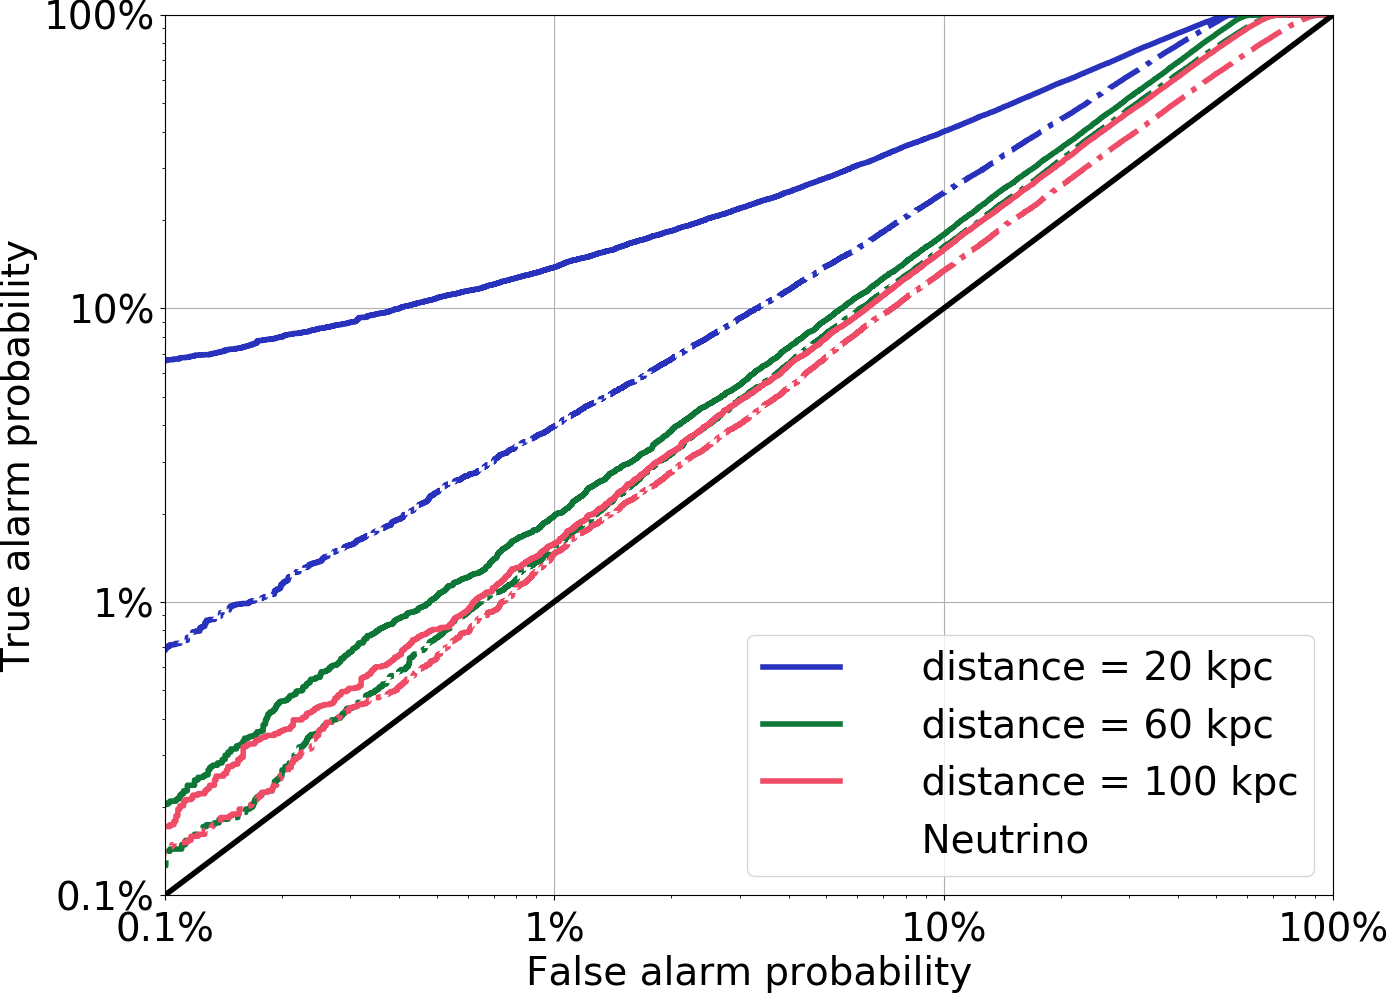
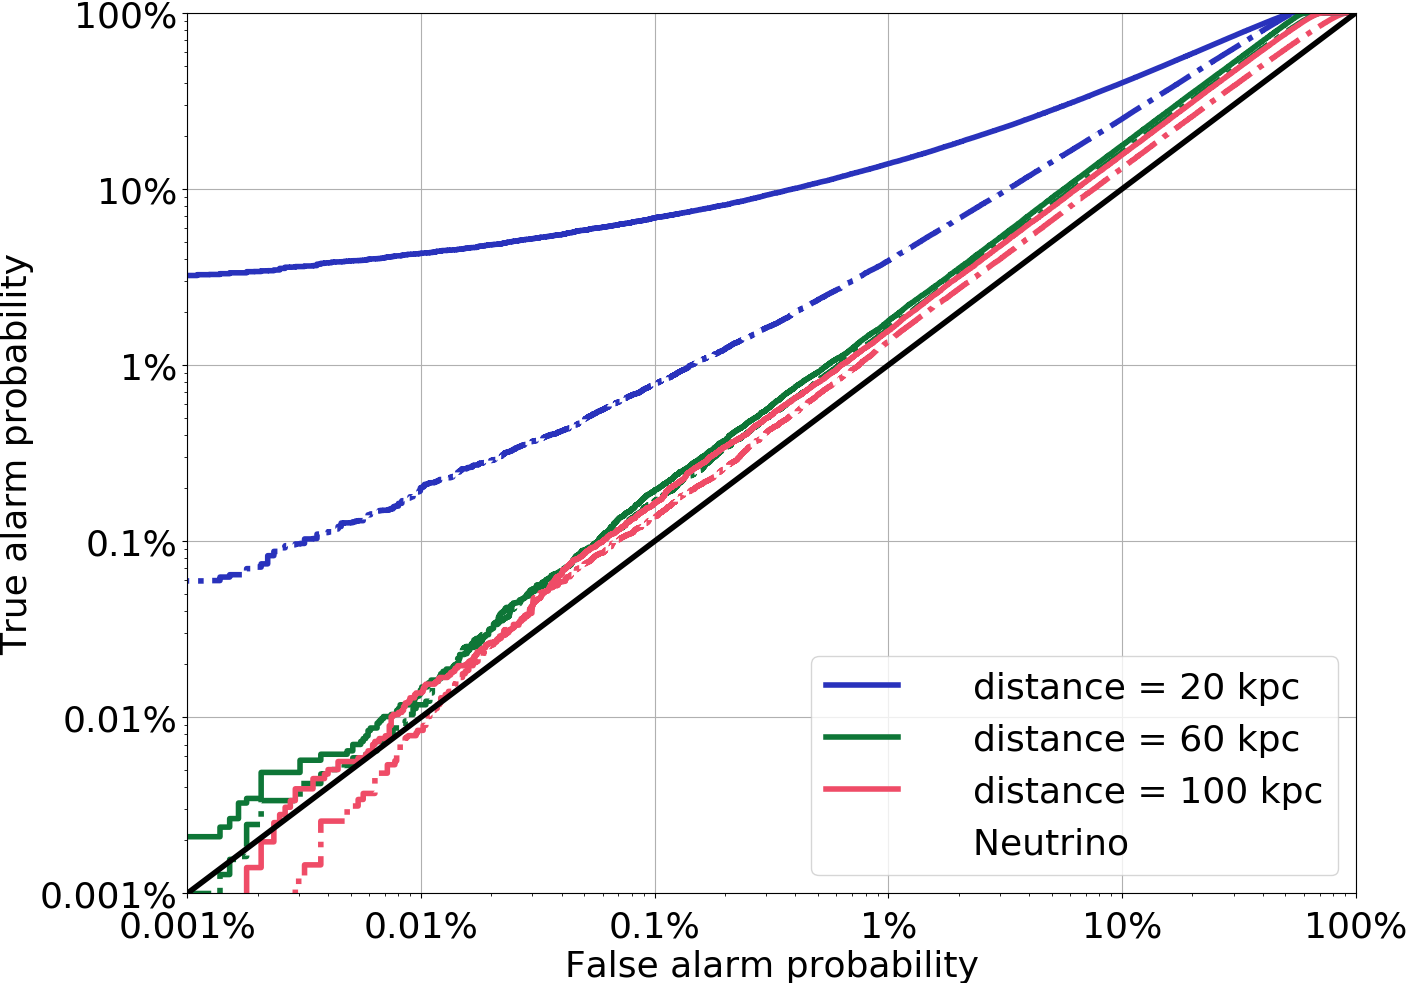
comments incorporated, samples increased to 1.08e6

diff --git a/main.tex b/main.tex
@@ -87,15 +87,17 @@ the gravitational wave signals buried in noise. For the waveforms used in the
 training of the convolutional neural network, our results suggest that a
 network of advanced LIGO, advanced VIRGO and KAGRA, or a network of LIGO A+,
 advanced VIRGO and KAGRA is likely to detect a magnetorotational core collapse
-supernovae out to the Large or even Small Magellanic Clouds. A Galactic event 
-is likely to be detectable with a network of H+L+VK if the explosion mechanism 
-is the neutrino-driven mechanism.  By testing the convolutional neural network 
-with waveforms not used for training, we show that the true alarm probabilities 
-are $50\%$ and $73\%$ at $50$ kpc for waveforms $\text{R3E1AC}$ and 
-$\text{R4E1FC\_L}$ for networks of HLVK and H+L+VK respectively.  
+supernovae out to the Large or even Small Magellanic Clouds. 
+%A Galactic event is likely to be detectable with a network of H+L+VK 
+%if the explosion mechanism is the neutrino-driven mechanism.  
+By testing the convolutional neural network 
+with waveforms not used for training, we show that the true alarm probability
+is $66\%$ at $60$ kpc for waveforms $\text{R3E1AC}$ and 
+$\text{R4E1FC\_L}$ for networks of H+L+VK.  
 For waveforms $\text{s}20$ and $\text{SFHx}$ at $10$ kpc, 
-the true alarm probabilities are $64\%$ for a network of H+L+VK. 
-All at false alarm probability equal to $1\%$. 
+the true alarm probabilities are $49\%$ and $20\%$ for a network of H+L+VK 
+and HLVK respectively. 
+All at false alarm probability equal to $0.1\%$. 
 \end{abstract}
 
 \pacs{}
@@ -587,7 +589,7 @@ $^*$ Mass of a star in a binary system with an initial helium mass of $3.5\text{
     \end{center}
     \caption{Examples of simulated waveforms for which the explosion is modelled by
 the magnetorotational mechanism. The left panel shows a waveform 
-from~\cite{abdikamalov2014measuring} for an equatorial observer. The progenitor is $12\text{M}_\odot$ with
+from~\cite{abdikamalov2014measuring}. The progenitor is $12\text{M}_\odot$ with
 differential rotation parameter $A=10^4~\text{km}$. The initial angular velocity
 at the core $\Omega_c$ is $5.0~\text{rads/s}$. The middle panel shows a waveform
 from~\cite{dimmelmeier2008gravitational}. The simulation corresponds to a
@@ -596,9 +598,10 @@ progenitor of $15\text{M}_\odot$ with $A=10^5$ km and $\Omega_c =
 from~\cite{richers2017equation} where the progenitor is $12\text{M}_\odot$, $A$
 and $\Omega_c$ are $10^4$ km and $3.0~\text{rad/s}$ respectively. In all panels,
 only the $h_{+}$ polarisations are shown because the simulations are
-axis-symmetric or 2D, and therefore described by only one polarisation.  The
-sources are assumed to be at a distance of $10$ kpc. The x-axes show the time after 
-core bounce. The waveforms shown in all panels are for an observer in the equatorial plane.\label{fig:magwaveforms}} 
+axis-symmetric or 2D, and therefore described by only one polarisation. 
+The waveforms shown in all panels are for an observer in the equatorial plane.
+The sources are assumed to be at a distance of $10$ kpc. The x-axes show the time after 
+core bounce.\label{fig:magwaveforms}} 
 \end{figure*}
 %
 % plot of example neutrino waveforms
@@ -623,11 +626,9 @@ modelled by the neutrino-driven mechanism. From the left to the right, the
 panels show waveforms from~\cite{10.1093mnrasstz990, 
 radice2019characterizing, yakunin2017gravitational}, with progenitors of masses equal to
 $15\text{M}_\odot$, $15\text{M}_\odot$ and $60\text{M}_\odot$ respectively.
-For the left and middle panels, the observer is assumed to be along the pole, 
-while an observer along the equator is assumed for the right panel.
-The sources are assumed to be at $10$ kpc from earth. The x-axes show the time after core bounce.
-The waveform shown in the left panel is for a polar observer, while the other panels show that 
+The waveform shown in the left panel is for a polar observer, while the waveforms in the other panels are 
 for an equatorial observer.
+The sources are assumed to be at $10$ kpc from earth. The x-axes show the time after core bounce.
 \label{fig:neuwaveforms}} 
 \end{figure*}
 %
@@ -799,8 +800,8 @@ This step is essential for the \ac{CNN} to learn the features of the waveforms
 and to identify them effectively under different noise scenarios and starting
 times.  After that, we generate independent noise realisations for the
 background noise class. The entire data set $\bold{D}$ has
-roughly $l = 3.0 \times 10^{5}$ data samples, where each of the 3 classes
-contains approximately $1.0\times10^{5}$ data samples.
+roughly $l = 1.26 \times 10^{6}$ data samples, where each of the 3 classes
+contains approximately $4.2\times10^{5}$ data samples.
 %
 %\begin{equation}\label{eq:finaldata}
 %\bold{D}(\boldsymbol{\alpha}, \boldsymbol{\delta}, \boldsymbol{\delta_t}, \bold{t}, \bold{x}) =  \left(\begin{array}{c}
@@ -825,7 +826,7 @@ input time-series for a single detector. A data sample consists of such a
 time-series containing a signal from the same source or simply background noise
 from all the detectors in the network. The data samples are then split into 3
 groups, with $1.0\times10^{4}$ samples being randomly selected for validation.
-Of the remainder, $\sim 1.7\times10^{5}$ for training and $\sim 1.2\times10^{5}$ for tesing. 
+Of the remainder, $1.70\times10^{5}$ for training and $1.08\times10^{6}$ for tesing. 
 The large number of testing samples is chosen so that low values of \ac{FAP} can be obtained 
 (see section \ref{sec:result} and section \ref{sec:unseen}).
 When the training is finished for a dataset generated at a given distance, the above described
@@ -846,7 +847,8 @@ the paper, we will use their acronyms to refer to the networks, i.e., HLVK and H
 train/validate/test the \ac{CNN}. The blue shows a whitened time-series with a
 signal added to Gaussian noise generated using the power spectral density of \ac{aLIGO}. 
 The red curve shows the same whitened signal free of
-noise. The original waveform is shown in Fig. \ref{fig:neusample1}.
+noise. The optimal signal to noise ratio for this signal is $5.5$.
+The original waveform is shown in Fig. \ref{fig:neusample1}.
 The source is at a distance of $10$ kpc from earth.
 \label{fig:sample}} 
 \end{figure}
@@ -932,7 +934,7 @@ higher than those of neutrino-driven signals.
 distances, $20$, $60$, and $100$ kpc. The left panel shows the results for the
 neutrino-driven mechanism, while the panel on the right shows those for the
 magnetorotational mechanism. In both panels, the solid lines are for the
-network H+L+VK, while the dashed lines are for HLVK. The black diagonal lines in both plots indicate 
+network H+L+VK, while the dashed lines are for HLVK. The black lines in both plots indicate 
 the worst scenario where a model has zero ability in distinguishing its input.
 \label{fig:ROClog}} 
 \end{figure*}
@@ -946,26 +948,26 @@ results for three chosen \acp{FAP} values are shown in Fig.~\ref{fig:eff}.  In
 this figure, a similar trend is seen that magnetorotational signals are easier
 for the \ac{CNN} to identify than neutrino-driven signals at a given distance.
 For magnetorotational signals from sources located at $50$ kpc and a \ac{FAP}
-of $1\%$, the \ac{CNN} achieves a \ac{TAP} of $87\%$ and $72\%$ for the
+of $0.1\%$, the \ac{CNN} achieves a \ac{TAP} of $82\%$ and $66\%$ for the
 networks H+L+VK and HLVK respectively. At more restrict \acp{FAP} such as
-$0.01\%$, the \ac{CNN} still achieves \acp{TAP} of $75\%$ and $62\%$ for sources at
+$0.001\%$, the \ac{CNN} still achieves \acp{TAP} of $72\%$ and $55\%$ for sources at
 the same distance for the two networks respectively.  For sources that are
 located at a slightly further distance of $60$ kpc, the networks achieve a
-\ac{TAP} of $82\%$ (H+L+VK) or $60\%$ (HLVK) at a \ac{FAP} of $1\%$. Such a range
+\ac{TAP} of $77\%$ (H+L+VK) or $54\%$ (HLVK) at a \ac{FAP} of $0.1\%$. Such a range
 includes distances associated with the Large and Small Magellanic Clouds and
 covers the satellite galaxies in between~\cite{karachentsev2004catalog,
-belokurov2007cats}.  For sources at $100$ kpc, the \acp{TAP} are no less than $50\%$ 
-for H+L+VK for all chosen \acp{FAP} values, and is $61\%$ if
-the \ac{FAP} is $1\%$. These numbers indicate that with
+belokurov2007cats}.  For sources at $80$ kpc, the \acp{TAP} are no less than $50\%$ 
+for H+L+VK for all chosen \acp{FAP} values, and is $66\%$ if
+the \ac{FAP} is $0.1\%$. These numbers indicate that with
 such a \ac{GW} network, it is possible to detect magnetorotational \ac{CCSN}
-signals out to such a distance. For sources at $150$ and $200$ kpc, the \acp{TAP}
-drop to $39\%$ and $21\%$ respectively for \ac{FAP} equal to $1\%$.
+signals out to such a distance. For sources at $100$, $150$ and $200$ kpc, the \acp{TAP}
+drop to $55\%$, $33\%$ and $16\%$ respectively for \ac{FAP} equal to $0.1\%$.
 On the other hand, it is more difficult for the
 \ac{CNN} to detect and classify the neutrino-driven signals, due to their
 weaker amplitudes. For example, for sources at $10$ kpc, the \ac{CNN} achieves
-a \ac{TAP} of $53\%$ and $22\%$ for H+L+VK and HLVK respectively if the
-\ac{FAP} is $1\%$.  This means that for a \ac{GW} from a Galactic \ac{CCSN}
-signal it is possible to detect and classify it with a network of H+L+VK.
+a \ac{TAP} of $38\%$ and $10\%$ for H+L+VK and HLVK respectively if the
+\ac{FAP} is $0.1\%$. In Fig.~\ref{fig:eff}, only the values of \ac{TAP} that
+are larger than zero will be plotted.
 
 %
 % the TAP as a function of distance
@@ -1020,26 +1022,32 @@ For example, an input will be assigned into a certain class if the
 corresponding probability is larger than the pre-selected threshold probability. In such a
 scenario, the \ac{FAP} and \ac{TAP} would be affected by the choice of the
 threshold. We show such a result in Fig.~\ref{fig:ROCfixed}, where we employed
-a threshold probability of $95\%$. 
+a threshold probability of $90\%$. 
 This value is chosen so that low values of \ac{FAP} can be maintained throughout all tested distances
 as illustrated by the right y-axes of the figures.
 %because for lower values, 
 %there could be more than a class with predicted probabilities from the \ac{CNN} 
 %larger than the threshold, while higher values could potentially rule out inputs 
 %that may otherwise be correctly identified.
-For H+L+VK and magnetorotational signals at $10$ kpc, the \ac{TAP} is $97\%$. If the distance
-is extended to $100$ kpc, the \ac{TAP} is still larger than $50\%$. 
-For HLVK, the \ac{TAP} is $95\%$ for sources at $10$ kpc and drops to $54\%$ at
+For H+L+VK and magnetorotational signals at $10$ kpc, the \ac{TAP} is $98\%$. 
+If the distance is extended to $100$ kpc, the \ac{TAP} is still larger than $50\%$. 
+For HLVK, the \ac{TAP} is $96\%$ for sources at $10$ kpc and drops to $56\%$ at
 $60$ kpc.
 %The \acp{TAP} decrease to $10\%$ and $9\%$ for sources at $150$ and $200$ kpc.
-For all distances, the \ac{CNN} maintains a \ac{FAP} no larger than $0.2\%$ for
+For all distances, the \ac{CNN} maintains a \ac{FAP} no larger than $0.3\%$ for
 both networks regarding magnetorotational waveforms. For neutrino-driven
-signals, we show that H+L+VK has a \acp{TAP} of $39\%$ at $10$ kpc while it
-is $6\%$ at $10$ kpc for HLVK with \acp{FAP} $\sim 0.1\%$. It should be noted that the results presented in this section are
+signals, we show that H+L+VK has a \acp{TAP} of $44\%$ at $10$ kpc while it
+is $11\%$ at $10$ kpc for HLVK with \acp{FAP} $< 0.3\%$.
+As we have chosen a large value of threshold, the values of \ac{TAP} decreases rapidly 
+as the distance increases. Again, only the values of \ac{TAP} larger than zero will be plotted.
+
+It should be noted that the results presented in this section are
 averaged over all the data samples in the testing samples. The performance on
 any individual waveform may vary depending on the morphology and the amplitudes
-of the waveform.
-
+of the waveform. 
+In addition, if an accurate time window and/or localisation of en event are available
+(e.g. with electromagnetic and/or neutrino observations), 
+such low values of \ac{FAP} may not be necessary. 
 %Also shown in this figure is a curve showing the \ac{TAP} for all the classes, defined by,
 %\begin{equation}\label{eq:TAPforall}
 %\text{TAP}_{\text{all}} = \frac{\text{No. of correctly identified test input}}{\text{No. of test input}}.
@@ -1099,7 +1107,7 @@ panels show the waveforms $\text{R3E1AC}$(left) and $\text{R4E1FC\_L}$(right),
 for a polar observer, modelled by the magnetorotational mechanism. 
 The inset plots show the $h_{\times}$ polarisations of the waveform, which are at least one order of magnitude weaker than the 
 $h_{+}$ polarisations.
-The waveforms shown in the bottom panels are $\text{SFHx}$(left) and $\text{s}20$(right), for an equatorial observer,
+The waveforms shown in the bottom panels are $\text{SFHx}$(left, for an polar observer) and $\text{s}20$(right, for an equatorial observer),
 modelled by the neutrino-driven mechanism. 
 Shown in the x-axes are the time after core bounce.\label{fig:Extratestwaveform}} 
 \end{figure*}
@@ -1130,17 +1138,18 @@ The waveforms have not been used for the training of the \ac{CNN}.
 %
 % the new test waveofmr procedure
 %
-Using the procedure described in Sec.~\ref{sec:spwf}, we generate $1.2\times10^5$
-samples for each distance and therefore each class has $4\times10^4$
+Using the procedure described in Sec.~\ref{sec:spwf}, we generate $1.08\times10^6$
+samples for each distance and therefore each class has $3.6\times10^5$
 samples. The performance of the \ac{CNN} on the test waveforms is shown in
 Fig.~\ref{fig:Extratest}. For waveforms $\text{R3E1AC}$ and $\text{R4E1FC\_L}$
-at $60$ kpc and a \ac{FAP} of $1\%$, the \ac{CNN} achieves a \ac{TAP} of $73\%$
+at $60$ kpc and a \ac{FAP} of $0.1\%$, the \ac{CNN} achieves a \ac{TAP} of $66\%$
 with H+L+VK. This indicates that with the
 \ac{CNN} and a network of H+L+VK, it is possible to detect these waveforms from sources that are at
 distances consistent with the Large and Small Magellanic Clouds.
-For HLVK and a distance of $50$ kpc, a \ac{TAP} of $50\%$ is achieved, showing the possibility of detecting these waveforms out to the Large Magellanic Clouds.
-For waveforms $\text{s}20$ and $\text{SFHx}$, the \acp{TAP} are $64\%$ and $36\%$ for the two
-networks if the sources are at $10$ kpc and the \ac{FAP} is $1\%$.  The
+For HLVK and a distance of $40$ kpc, a \ac{TAP} of $54\%$ is achieved, showing the possibility of detecting 
+these waveforms out to the satellite galaxies within such a distance.
+For waveforms $\text{s}20$ and $\text{SFHx}$, the \acp{TAP} are $49\%$ and $20\%$ for the two
+networks if the sources are at $10$ kpc and the \ac{FAP} is $0.1\%$.  The
 efficiency for the waveforms $\text{s}20$ and $\text{SFHx}$ is noticeably
 higher than that for the neutrino-driven mechanism in Fig.~\ref{fig:eff} for
 the same distance. This is because as mentioned before, the detection and
@@ -1155,41 +1164,40 @@ the \ac{CNN} to detect.
 %
 We have demonstrated that a \ac{CNN} can be applied for the purpose of
 distinguishing \ac{GW} detector time-series among pure background noise and
-\ac{CCSN} explosion mechanisms. We have trained the \ac{CNN} using
-$1.8\times10^{5}$ samples of simulated time series for each distance at a
+\ac{CCSN} explosion mechanisms. We have trained, valided, and tested 
+the \ac{CNN} using $1.26\times10^{6}$ samples of simulated time series for each distance at a
 number of distances from $10$ kpc to $200$ kpc. The data samples for each
-class consisted of approximately $4\times10^5$ samples. 
+class consisted of approximately $4.2\times10^5$ samples. 
 
 %
 % Primary magneto results
 %
 We have shown that with a \ac{GW} detector network of HLVK, when the \ac{FAP}
-was $1\%$, once trained, a \ac{CNN} could achieve a \ac{TAP} of $60\%$
+was $0.1\%$, once trained, a \ac{CNN} could achieve a \ac{TAP} of $54\%$
 for magnetorotational signals from sources at $60$ kpc. Using a network of
-H+L+VK, we showed that the \ac{TAP} is increased to $82\%$.  Both the Large and
+H+L+VK, we showed that the \ac{TAP} is $77\%$.  Both the Large and
 Small Magellanic Clouds are within this distance. If the distance is extended
-to $150$ or $200$ kpc, a \ac{TAP} of $39\%$ or $21\%$ respectively are still
+to $150$ or $200$ kpc, a \ac{TAP} of $33\%$ or $16\%$ respectively are still
 achievable for H+L+VK, indicating a small possibility of detections within
 such distances. 
-
 %
 % not so good neutrino results
 %
 For the neutrino-driven mechanism, the weaker amplitudes of the waveforms
 result in lower \acp{TAP} at the same distances.  For sources at $10$ kpc, the
-trained \ac{CNN}, with a \ac{FAP} of $1\%$, achieved a \ac{TAP} of $22\%$ and
-$53\%$ for HLVK and H+L+VK respectively. This indicates a Galactic \ac{CCSN}
-event would likely be detectable with H+L+VK.
-
+trained \ac{CNN}, with a \ac{FAP} of $0.1\%$, achieved a \ac{TAP} of $10\%$ and
+$38\%$ for HLVK and H+L+VK respectively. 
 %
 % statement about out of treaining data extra test samples
 %
+
 We used four waveforms that were not used for the training of the \ac{CNN} to
 test the performance of the \ac{CNN} in a more realistic situation. We found
 that for waveforms $\text{R3E1AC}$ and $\text{R4E1FC\_L}$ from sources at
-$60$ kpc, the \acp{TAP} are $73\%$ and $38\%$ for H+L+VK and HLVK respectively.
-For waveforms $\text{s}20$ and $\text{SFHx}$ at $10$ kpc, the \acp{TAP} are $64\%$ and
-$36\%$ for the two networks respectively. All at \ac{FAP} of $1\%$. 
+$60$ kpc, the \ac{TAP} is $66\%$ for H+L+VK.
+For HLVK and sources at $40$ kpc, the \ac{TAP} is $54\%$.
+For waveforms $\text{s}20$ and $\text{SFHx}$ at $10$ kpc, the \acp{TAP} are $49\%$ and
+$20\%$ for the two networks respectively. All at \ac{FAP} of $0.1\%$. 
 The results prove the possibility of
 using a \ac{CNN} as a tool for the detection and classification of \ac{CCSN}
 \ac{GW} signals.
